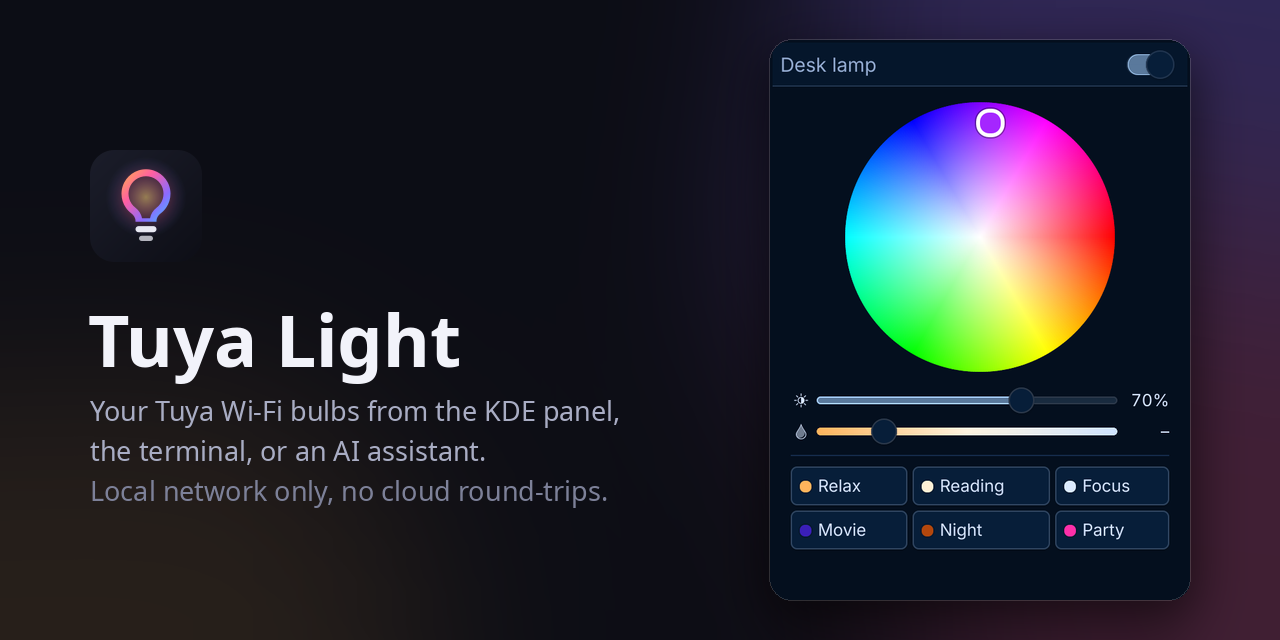
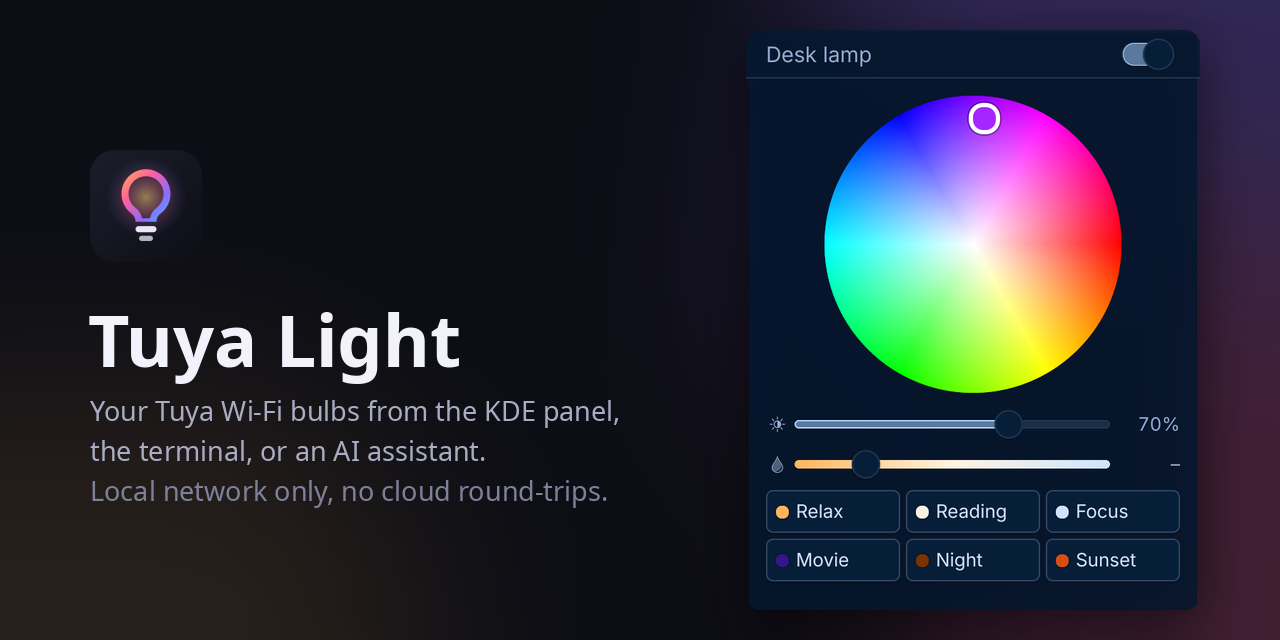
docs: render previews on Plasma's dialog frame, document settings
tools/preview.py draws the popup on the theme's own dialog background
and can render settings tabs; the banner rounds all four corners. The
installer keeps a working install when an upgrade build fails.

Changed region(s): [[0.5938, 0.0312, 0.9375, 0.9688], [0.8125, 0.1875, 0.8438, 0.2188]]

diff --git a/tools/preview.py b/tools/preview.py
@@ -25,22 +25,44 @@ STATES = {
     "setup": {"config": True},
 }
 
+SCENES = [
+    {"name": "relax", "label": "Relax", "mode": "white", "brightness": 45, "temperature": 0, "hue": 0, "saturation": 100, "builtin": True, "hidden": False},
+    {"name": "reading", "label": "Reading", "mode": "white", "brightness": 100, "temperature": 55, "hue": 0, "saturation": 100, "builtin": True, "hidden": False},
+    {"name": "focus", "label": "Focus", "mode": "white", "brightness": 100, "temperature": 100, "hue": 0, "saturation": 100, "builtin": True, "hidden": False},
+    {"name": "movie", "label": "Movie", "mode": "colour", "brightness": 18, "temperature": 0, "hue": 255, "saturation": 85, "builtin": True, "hidden": False},
+    {"name": "night", "label": "Night", "mode": "colour", "brightness": 6, "temperature": 0, "hue": 25, "saturation": 100, "builtin": True, "hidden": False},
+    {"name": "sunset", "label": "Sunset", "mode": "colour", "brightness": 70, "temperature": 0, "hue": 18, "saturation": 90, "builtin": False, "hidden": False},
+]
+
+CONFIG = {
+    "sections": ["wheel", "brightness", "temperature", "scenes"],
+    "wheelSize": 12, "sceneColumns": 3,
+    "favoriteColours": ["#ff3b30", "#ff9500", "#ffcc00", "#34c759", "#00c7be", "#0a84ff", "#8e5cff", "#ff2d92"],
+    "iconStyle": "bulb", "tintIcon": True, "dimWhenOff": True, "showPercent": False,
+    "leftClick": "popup", "middleClick": "toggle", "wheelAction": "brightness", "wheelStep": 5,
+}
+
+# The popup sits on Plasma's own dialog frame (dialogs/background from the
+# current Plasma theme), so corners, border and shadow match the real thing.
 WRAPPER = """
 import QtQuick
+import QtQuick.Layouts
 import org.kde.kirigami as Kirigami
+import org.kde.ksvg as KSvg
 import "file://%(ui)s" as Ui
 
-Rectangle {
+Item {
     id: stage
-    width: Kirigami.Units.gridUnit * 18
-    height: Kirigami.Units.gridUnit * 24
-    color: Kirigami.Theme.backgroundColor
-    Kirigami.Theme.colorSet: Kirigami.Theme.View
+    width: frame.width + 2 * pad
+    height: frame.height + 2 * pad
+    readonly property int pad: Kirigami.Units.gridUnit
 
     QtObject {
         id: fake
         property var light: previewState.config ? ({}) : previewState
         property var devices: previewDevices
+        property var scenes: previewScenes
+        property var allScenes: previewScenes
         property bool busy: false
         property bool loaded: !previewState.config
         property bool needsSetup: previewState.config === true
@@ -48,9 +70,11 @@ Rectangle {
         property string error: previewState.config ? "no device list" : (previewState.error || "")
         property string device: ""
         readonly property bool online: loaded && light.online === true
-        function send(args) { console.log("send", args) }
+        function send(args) {}
         function refresh() {}
         function listDevices() {}
+        function listScenes() {}
+        function quote(s) { return "'" + s + "'" }
     }
     QtObject {
         id: fakeRoot
@@ -59,11 +83,51 @@ Rectangle {
         function selectDevice(id) {}
     }
 
-    Ui.FullRepresentation {
+    KSvg.FrameSvgItem {
+        id: frame
+        x: stage.pad
+        y: stage.pad
+        imagePath: "dialogs/background"
+        width: popup.Layout.preferredWidth + margins.left + margins.right
+        height: Math.max(popup.Layout.preferredHeight, Kirigami.Units.gridUnit * 16) + margins.top + margins.bottom
+
+        Ui.FullRepresentation {
+            id: popup
+            anchors.fill: parent
+            anchors.leftMargin: frame.margins.left
+            anchors.rightMargin: frame.margins.right
+            anchors.topMargin: frame.margins.top
+            anchors.bottomMargin: frame.margins.bottom
+            backend: fake
+            root: fakeRoot
+            cfg: previewConfig
+        }
+    }
+}
+"""
+
+
+# A settings page on a plain window background, the way the widget's
+# configuration dialog shows it.
+CONFIG_WRAPPER = """
+import QtQuick
+import org.kde.kirigami as Kirigami
+
+Rectangle {
+    width: Kirigami.Units.gridUnit * 34
+    height: Kirigami.Units.gridUnit * 28
+    color: Kirigami.Theme.backgroundColor
+    Kirigami.Theme.colorSet: Kirigami.Theme.Window
+    Loader {
         anchors.fill: parent
         anchors.margins: Kirigami.Units.largeSpacing
-        backend: fake
-        root: fakeRoot
+        source: "file://%(ui)s/%(page)s.qml"
+        onLoaded: {
+            // What Plasma's config dialog does: fill every cfg_ property it declares.
+            for (const key in previewConfig) {
+                if (("cfg_" + key) in item) item["cfg_" + key] = previewConfig[key]
+            }
+        }
     }
 }
 """
@@ -75,15 +139,21 @@ def main() -> int:
     ap.add_argument("--scale", default="2")
     ap.add_argument("--states", nargs="*", default=list(STATES))
     ap.add_argument("--devices", type=int, default=1, help="how many devices to pretend")
+    ap.add_argument("--set", action="append", default=[], metavar="KEY=JSON",
+                    help="override a widget setting, e.g. --set 'sections=[\"brightness\",\"scenes\"]'")
+    ap.add_argument("--suffix", default="", help="added to output file names")
+    ap.add_argument("--config", nargs="*", default=None, metavar="PAGE",
+                    help="render settings pages instead (configAppearance, configBehaviour, ...)")
     args = ap.parse_args()
 
     os.environ.setdefault("QT_QPA_PLATFORM", "offscreen")
     os.environ.setdefault("QT_QPA_PLATFORMTHEME", "kde")
     os.environ.setdefault("QT_QUICK_BACKEND", "software")
+    os.environ["QT_FORCE_STDERR_LOGGING"] = "1"  # QML errors to the terminal, not the journal
     os.environ["QT_SCALE_FACTOR"] = args.scale
 
     from PySide6.QtCore import QObject, QTimer, QUrl, Slot
-    from PySide6.QtGui import QGuiApplication
+    from PySide6.QtGui import QColor, QGuiApplication
     from PySide6.QtQuick import QQuickView
 
     class Ki18n(QObject):
@@ -125,7 +195,13 @@ def main() -> int:
     devices = [{"id": f"d{i}", "name": n} for i, n in
                enumerate(["Desk lamp", "Ceiling", "Hall"][: args.devices])]
 
-    queue = list(args.states)
+    import json as _json
+    cfg = dict(CONFIG)
+    for item in args.set:
+        key, _, value = item.partition("=")
+        cfg[key] = _json.loads(value)
+
+    queue = list(args.states) if args.config is None else ["config:" + p for p in args.config]
     failures = []
 
     def render_next():
@@ -135,11 +211,19 @@ def main() -> int:
             return
         name = queue.pop(0)
         view = QQuickView()
+        view.setColor(QColor(0, 0, 0, 0))
         ctx = view.rootContext()
         ctx.setContextObject(ki18n)
-        ctx.setContextProperty("previewState", STATES[name])
+        ctx.setContextProperty("previewState", STATES.get(name, {}))
         ctx.setContextProperty("previewDevices", devices)
-        view.setSource(QUrl.fromLocalFile(str(wrapper)))
+        ctx.setContextProperty("previewScenes", SCENES)
+        ctx.setContextProperty("previewConfig", cfg)
+        source = wrapper
+        if name.startswith("config:"):
+            source = args.outdir / ".config-preview.qml"
+            source.write_text(CONFIG_WRAPPER % {"ui": UI, "page": name[7:]})
+            name = name[7:]
+        view.setSource(QUrl.fromLocalFile(str(source)))
         if view.status() != QQuickView.Status.Ready:
             for err in view.errors():
                 print(err.toString(), file=sys.stderr)
@@ -148,15 +232,20 @@ def main() -> int:
             return
         view.show()
 
+        def fit():
+            root = view.rootObject()
+            view.resize(int(root.width()), int(root.height()))
+            QTimer.singleShot(400, grab)
+
         def grab():
-            out = args.outdir / f"{name}.png"
+            out = args.outdir / f"{name}{args.suffix}.png"
             view.grabWindow().save(str(out))
             print(out)
             view.close()
             view.deleteLater()
             render_next()
 
-        QTimer.singleShot(900, grab)
+        QTimer.singleShot(2500 if name in (args.config or []) else 700, fit)
 
     QTimer.singleShot(0, render_next)
     return app.exec()

diff --git a/tools/banner.py b/tools/banner.py
@@ -27,14 +27,6 @@ def logo(size: int) -> Image.Image:
         return Image.open(out).convert("RGBA")
 
 
-def rounded(img: Image.Image, radius: int) -> Image.Image:
-    mask = Image.new("L", img.size, 0)
-    ImageDraw.Draw(mask).rounded_rectangle((0, 0, *img.size), radius, fill=255)
-    img = img.convert("RGBA")
-    img.putalpha(mask)
-    return img
-
-
 def main() -> None:
     bg = Image.new("RGB", (W, H), "#0c0d15")
     glow = Image.new("RGBA", (W, H), (0, 0, 0, 0))
@@ -45,21 +37,23 @@ def main() -> None:
     glow = glow.filter(ImageFilter.GaussianBlur(120))
     bg.paste(glow, (0, 0), glow)
 
-    shot = Image.open(ROOT / "docs/screenshots/colour.png")
-    target_h = 560
+    # The render already carries Plasma's dialog frame and a transparent margin.
+    shot = Image.open(ROOT / "docs/screenshots/colour.png").convert("RGBA")
+    shot = shot.crop(shot.getbbox())
+    target_h = 580
     shot = shot.resize((round(shot.width * target_h / shot.height), target_h), Image.LANCZOS)
-    shot = rounded(shot, 22)
-    x, y = W - shot.width - 90, (H - shot.height) // 2
+    # The heading strip runs over the frame's top corners; round all four the
+    # same so the popup reads as one piece.
+    mask = Image.new("L", shot.size, 0)
+    ImageDraw.Draw(mask).rounded_rectangle((0, 0, shot.width - 1, shot.height - 1), 14, fill=255)
+    shot.putalpha(Image.composite(shot.getchannel("A"), mask, mask))
+    x, y = W - shot.width - 80, (H - shot.height) // 2
     shadow = Image.new("RGBA", (W, H), (0, 0, 0, 0))
-    ImageDraw.Draw(shadow).rounded_rectangle(
-        (x - 4, y + 14, x + shot.width + 4, y + shot.height + 22), 26, fill=(0, 0, 0, 150))
-    shadow = shadow.filter(ImageFilter.GaussianBlur(24))
+    alpha = shot.getchannel("A").point(lambda a: 150 if a > 0 else 0)
+    shadow.paste(Image.new("RGBA", shot.size, (0, 0, 0, 255)), (x, y + 16), alpha)
+    shadow = shadow.filter(ImageFilter.GaussianBlur(26))
     bg.paste(shadow, (0, 0), shadow)
-    border = Image.new("RGBA", (shot.width + 2, shot.height + 2), (0, 0, 0, 0))
-    ImageDraw.Draw(border).rounded_rectangle(
-        (0, 0, shot.width + 1, shot.height + 1), 23, outline=(255, 255, 255, 38), width=1)
     bg.paste(shot, (x, y), shot)
-    bg.paste(border, (x - 1, y - 1), border)
 
     mark = logo(112)
     bg.paste(mark, (90, 150), mark)

diff --git a/README.md b/README.md
@@ -12,11 +12,13 @@ The phone app goes through Tuya's cloud for every tap. Tuya Light uses the bulb'
 
 ## Features
 
-- **Panel widget.** A bulb icon that takes the light's current colour. Click for a colour wheel, a brightness slider, a warm-to-cool white slider and six scenes. Middle-click switches the light, scrolling dims it. Several bulbs get a picker at the top.
+- **Panel widget.** A bulb icon that takes the light's current colour. Click for a colour wheel, a brightness slider, a warm-to-cool white slider, favourite colours and your scenes. Several bulbs get a picker at the top.
+- **Your own scenes.** Create, edit, hide and delete scenes in the widget's settings, or save whatever the light shows right now. Built-in ones can be edited and restored. The command line and the MCP server see the same list.
+- **Make it yours.** Choose which popup sections appear and in what order, the wheel size, scene columns and favourite colours; what left click, middle click and the scroll wheel do (open, switch, a scene; brightness, warmth or colour); the panel icon (four shapes, tinted or not, dimmed when off, with the brightness next to it).
 - **Command line.** `tuya-light on`, `colour purple`, `colour '#ff8800'`, `white 60 20`, `brightness 30`, `scene movie`. Every command prints the resulting state; `--json` makes it machine-readable.
 - **MCP server.** `tuya-light mcp` exposes the same controls as tools, so an assistant such as Claude can answer "make the light warmer" or "movie mode".
 - **Both bulb generations.** Older bulbs (data points 1-5) and newer ones (20-24) are decoded; protocol versions 3.1 to 3.5 through [tinytuya](https://github.com/jasonacox/tinytuya).
-- **Scenes:** Relax, Reading, Focus, Movie, Night, Party.
+- **Built-in scenes:** Relax, Reading, Focus, Movie, Night, Party.
 - **Translations:** English, Turkish.
 
 ## Requirements
@@ -71,16 +73,29 @@ tuya-light [-d DEVICE] [--json] COMMAND
 | `white BRIGHTNESS [TEMPERATURE]` | White light, both 0-100; temperature 0 is warm, 100 cool |
 | `brightness PERCENT` | Dim or brighten, keeping the current colour or white tone |
 | `temperature PERCENT` | White temperature, switches to white |
-| `scene NAME` | `relax`, `reading`, `focus`, `movie`, `night`, `party` |
-| `devices`, `scenes` | List what is configured |
+| `scene NAME` | Apply a scene by name or label |
+| `scene-save LABEL --colour SPEC\|--white TEMP\|--current [--brightness N]` | Create or overwrite a scene; `--current` captures the light as it is |
+| `scene-remove NAME` | Delete your scene (a built-in one is hidden) |
+| `scene-hide NAME`, `scene-show NAME` | Hide from lists and the widget, or show again |
+| `scene-reset [NAME]` | Restore built-in scenes to their original form |
+| `devices`, `scenes [--all]` | List what is configured (`--all` includes hidden scenes) |
 | `setup` | Fetch local keys from the cloud (once) |
 | `mcp` | Run the MCP server on stdio |
 
 `-d` takes a device id or name and defaults to the first device. Exit codes: 0 done, 2 the light did not answer, 3 no device list yet.
 
+Scenes are stored in `~/.config/tuya-light/scenes.json`, which holds only what differs from the built-ins.
+
+```bash
+tuya-light scene-save "Reading nook" --white 30 --brightness 80
+tuya-light scene-save "Sunset" --colour '#ff6a2a' --brightness 70
+tuya-light scene-save "Right now" --current
+tuya-light scene "reading nook"
+```
+
 ## MCP server
 
-Tools: `list_devices`, `list_scenes`, `get_state`, `turn_on`, `turn_off`, `toggle`, `set_colour`, `set_white`, `set_brightness`, `apply_scene`. Each change returns the light's new state.
+Tools: `list_devices`, `list_scenes`, `get_state`, `turn_on`, `turn_off`, `toggle`, `set_colour`, `set_white`, `set_brightness`, `apply_scene`, `save_scene`, `remove_scene`. Each change returns the light's new state, and "save this as Evening" works because `save_scene` captures the current light by default.
 
 Claude Code:
 
@@ -100,12 +115,16 @@ Claude Desktop, Cursor and other clients (`mcpServers` in their JSON config):
 
 ## Widget settings
 
-| Setting | Default | |
-| --- | --- | --- |
-| Backend command | `tuya-light` | Full path if it is not on Plasma's `PATH` |
-| Device | first in the list | Id or name; the popup's picker sets it too |
-| Check the light every | 60 s | Also refreshed whenever the popup opens |
-| Scroll step | 5 % | Brightness change per wheel notch on the icon |
+Right-click the icon → **Configure…**. Four tabs:
+
+| Tab | What you set |
+| --- | --- |
+| Appearance | Which popup sections show and their order (colour wheel, brightness, white temperature, favourite colours, scenes); wheel size; scene columns; favourite colours; panel icon shape, tint, dimming when off, brightness next to the icon |
+| Behaviour | Left and middle click: open the controls, switch the light, apply a scene of your choice, or nothing. Scroll wheel: brightness, white temperature, colour, or nothing; step size and direction |
+| Scenes | Your scenes and the built-in ones: try on the light, edit (colour wheel or white sliders, with "take from the light"), hide, delete, restore |
+| Device | Which bulb, how often to check it, the backend command, a connection test |
+
+Defaults: left click opens the controls, middle click switches the light, scrolling changes brightness by 5 %.
 
 ## How it works
 
@@ -125,7 +144,7 @@ The widget has no Python in it: it runs the CLI and reads its one-line JSON answ
 backend/     Python package: core, CLI, MCP server, tests
 plasma/      the Plasma 6 widget (QML)
 po/          translations
-tools/       off-screen screenshots, banner, translation scripts
+tools/       off-screen renders of the popup and settings, banner, translation scripts
 ```
 
 ## Troubleshooting

diff --git a/CONTRIBUTING.md b/CONTRIBUTING.md
@@ -27,6 +27,9 @@ tools/preview.py /tmp/shots        # renders the popup off-screen; look at the P
 - **Human units outside, Tuya units inside.** Everything the CLI, MCP server and widget see is 0-100 (hue 0-360). The raw ranges (10-1000 or 25-255, hex colour strings) never leave `backend/src/tuya_light/light.py`. `decode_dps` handles both bulb generations; if you add a layout, add a test with a real sample.
 - **Bulbs push partial updates.** Right after a write, a bulb sends only the data points that changed, and that packet can arrive in place of the status reply. `Light._raw_status` merges replies until the switch point is there. Don't "simplify" that loop away.
 - **One command at a time from the widget.** `Backend.qml` keeps at most one pending command and replaces it with newer ones. Sending every slider step would queue dozens of TCP sessions against a device that handles one at a time.
+- **Scenes belong to the backend.** They live in `scenes.json` and go through `tuya_light/scenes.py`, which stores only differences from the built-ins. The widget edits them by running `tuya-light scene-save/remove/...`; don't copy them into the widget's own settings, or the CLI and MCP server stop seeing the same list.
+- **Widget settings are passed in, not read.** `FullRepresentation` and `CompactRepresentation` take `cfg` (Plasmoid.configuration) as a property, which is what lets `tools/preview.py` render them with a stand-in. Keep new settings on that path.
+- **Previews render in software.** `tools/preview.py` uses the software scene graph, where tinted (mask) icons come out untinted; that is the renderer, not the widget. `tools/preview.py OUT --config configScenes` renders a settings tab.
 - **Every command prints the state afterwards.** The widget relies on this to avoid a second call; keep it true for new commands.
 - **No shell interpolation of user input in QML.** Device names go through `_quote()` in `Backend.qml`.
 

diff --git a/CHANGELOG.md b/CHANGELOG.md
@@ -6,7 +6,9 @@ First release.
 
 - `tuya-light` command: state, on/off/toggle, colour (name, hex, HSV), white, brightness, temperature, six scenes, `--json` output.
 - `tuya-light setup`: fetches local keys from the Tuya cloud once and finds the bulbs on the LAN.
-- `tuya-light mcp`: MCP server with ten tools for AI assistants.
-- KDE Plasma 6 widget: colour wheel, brightness and white temperature sliders, scenes, several bulbs, middle-click to switch, scroll to dim.
+- Your own scenes: `scene-save` (from a colour, a white tone, or the light as it is), `scene-remove`, `scene-hide`/`scene-show`, `scene-reset`; built-in scenes can be edited and restored. Stored in `scenes.json`, shared by every front end.
+- `tuya-light mcp`: MCP server with twelve tools for AI assistants, including saving the current light as a scene.
+- KDE Plasma 6 widget: colour wheel, brightness and white temperature sliders, favourite colours, scenes, several bulbs.
+- Widget settings in four tabs: popup sections and their order, wheel size, scene columns, favourite colours, panel icon (shape, tint, dimming, brightness label); left click, middle click and scroll wheel actions; a scene editor; device and connection test.
 - Both Tuya bulb generations (data points 1-5 and 20-24).
 - English and Turkish.
